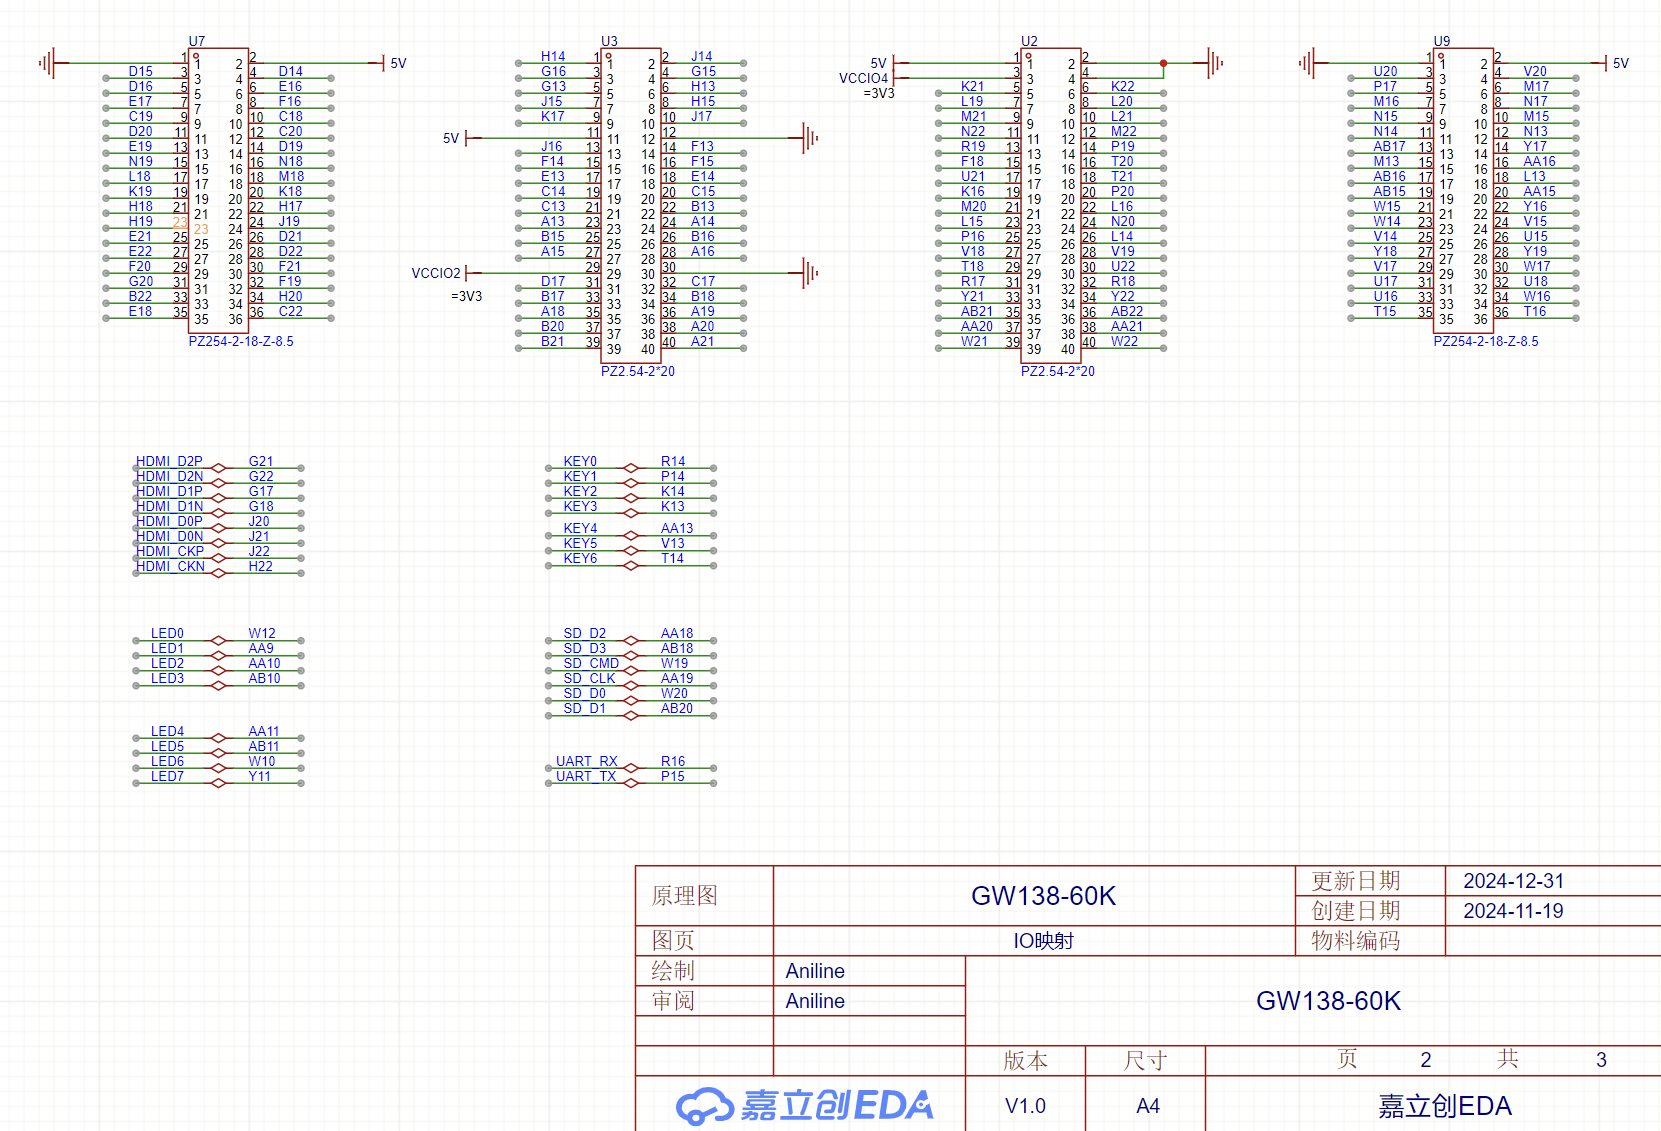
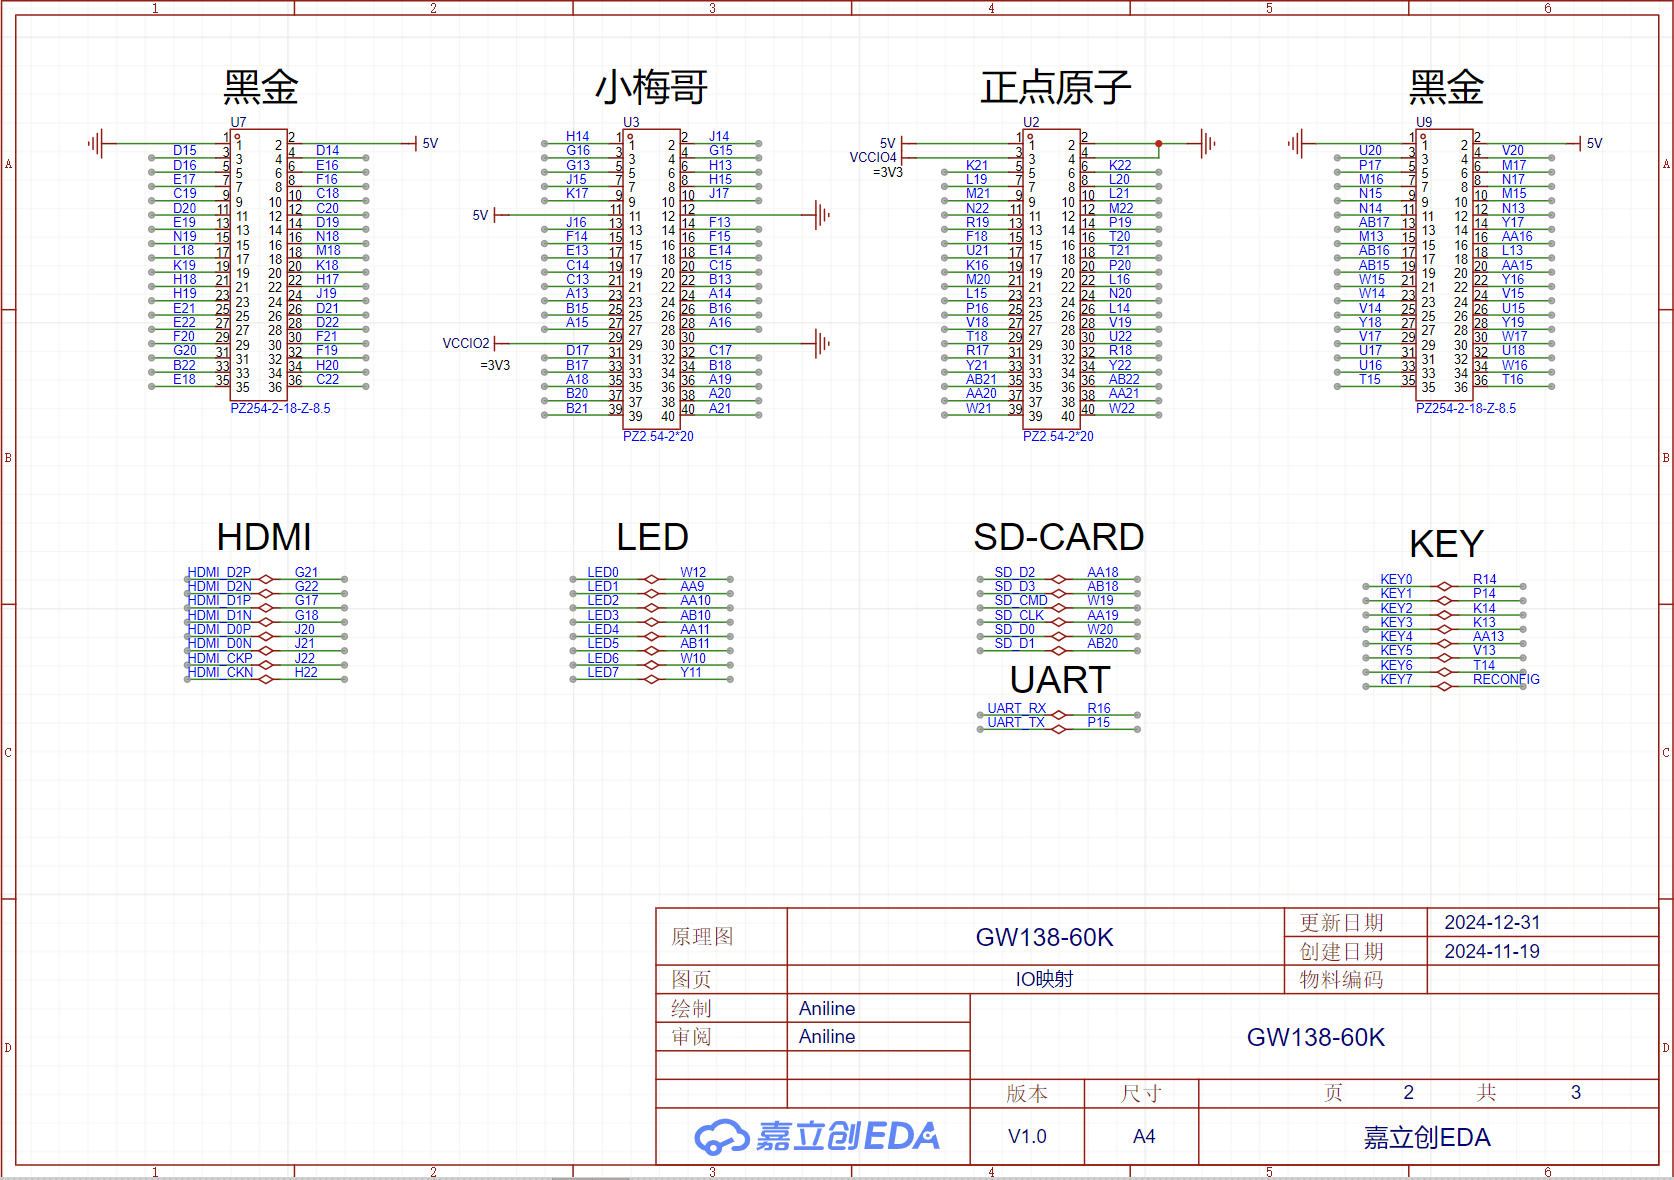
Save local changes before updating

diff --git a/README.md b/README.md
@@ -1,1 +1,38 @@
 # GW138_60K
+
+**描述**：基于Tang Mega 138K / 60K 二次开发的一款FPGA开发板，在GW138_060A的基础上进行修改。
+
+**参考**：GW138_060A：基于Tang Mega 138K / 60K 二次开发的一款FPGA开发板 [GW138_060A](https://bigpig.ongridea.com/h9wtn0)
+
+## 引脚定义
+
+<img src="PCB_design/SCH_GW138-60K_2-IO映射.jpg">
+
+## 测试外设
+
++ [多路LED IO测试模块](https://bigpig.ongridea.com/kl43wg)
++ [正点/黑金/小梅哥转接板](https://bigpig.ongridea.com/wai-she-1-hei-jin) 
++ LTC2220_12Bit_170M_ADC 
++ AD9744_14Bit_210M_DAC
+
+## 软件版本
+
++ GOWIN FPGA Designer Version V1.9.10.03
+
+## 常见问题
+
+1、为什么下载的代码不能直接烧录？
+
++ 因为综合生成的临时文件夹较为繁杂，没有同步到github，需要用户clone后自行编译生成下载文件
+   
+2、为什么综合报错？
+
++ 部分采用SV或复用IO口的工程会报错，请在Project->Configuration中Place&Route下Dual-Purpose IO找到报错的复用IO勾选上，或在Synthesize的General下选择SystemVerilog2017即可
+
+## 感谢
+
++ [大猪蹄子的个人博客](https://bigpig.ongridea.com/)
+
+## 扩展程序
+
++ [Gowin-138K-OC8051](https://github.com/Aniline47/GOWIN-138K-OC8051)
